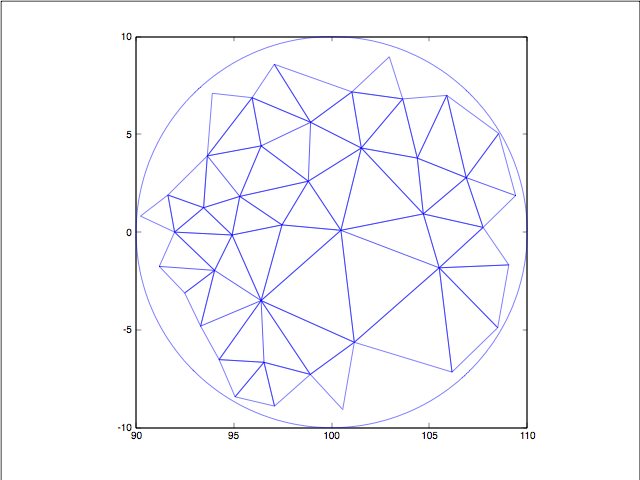
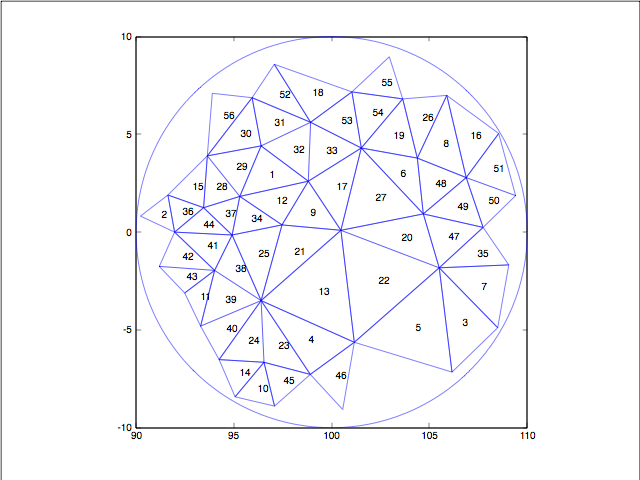
Updating top of synapse mesh view and tried to figure out nearby elements.

diff --git a/find_near_top_faces.py b/find_near_top_faces.py
@@ -1,0 +1,100 @@
+import numpy as np
+import scipy.io
+
+import face_neighbors_and_top_components as utils
+
+
+def get_new_edge_neighbors(boundary_vertices,
+                           all_component_vertices, all_valid_indices,
+                           facets, edges, vertices):
+  all_edge_neighbors = set()
+  for index in boundary_vertices:
+    facet = facets[index]
+    facet_edge_neighbors, _ = utils.get_neighbors(facet, edges, vertices,
+                                                  all_valid_indices)
+    all_edge_neighbors.update(facet_edge_neighbors)
+
+  # Remove faces already known
+  all_edge_neighbors = all_edge_neighbors - set(all_component_vertices)
+
+  return sorted(all_edge_neighbors)
+
+
+def get_points(face_indices, facets, vertices):
+  vertices_in_faces = np.vstack([facets[index].entities(0)
+                                 for index in face_indices])
+  # Find the index of all possible vertices on a face.
+  vertex_indices = sorted(set(vertices_in_faces.flatten()))
+
+  # Turn the indices into actual points
+  vertex_points = np.vstack([utils.get_point_in_3d(index, vertices)
+                             for index in vertex_indices])
+
+  return vertices_in_faces, vertex_indices, vertex_points
+
+
+def main():
+  resolution = 96  # 32 * 3
+  mesh_3d_full, facets, edges, vertices = utils.get_data(resolution)
+  top_facets = utils.get_top_facets(facets, resolution)
+
+  facets_by_index, components = utils.get_connected_components(
+      top_facets, edges, vertices)
+
+  # "First" component.
+  component = sorted(components[0])
+  component_facets = [facets_by_index[index] for index in component]
+
+  # All exterior indices should be allowed.
+  exterior_face_filename = 'exterior_faces_res_%d_full.npy' % resolution
+  exterior_face_indices = np.load(exterior_face_filename)
+  exterior_face_indices = set(exterior_face_indices)
+
+  breadth_first_extended_layers = {}
+  boundary_vertices = component[:]
+  all_component_vertices = component[:]
+  for i in xrange(1, 4):
+    new_neighbors = get_new_edge_neighbors(boundary_vertices,
+                                           all_component_vertices,
+                                           exterior_face_indices,
+                                           facets, edges, vertices)
+    # Add the new neighbors to the dictionary.
+    vertices_in_faces, vertex_indices, vertex_points = get_points(
+        new_neighbors, facets, vertices)
+    breadth_first_extended_layers[i] = (new_neighbors, vertices_in_faces,
+                                        vertex_indices, vertex_points)
+    # Add the new neighbors to the component.
+    all_component_vertices += new_neighbors
+    # Make the boundary equal to the newly discovered layer of neighbors.
+    boundary_vertices = new_neighbors[:]
+
+  # We are forgetting about the individual values of
+  # "breadth_first_extended_layers" but they can potentially by useful.
+
+  all_component_vertices = sorted(all_component_vertices)
+  vertices_in_faces, vertex_indices, vertex_points = get_points(
+      all_component_vertices, facets, vertices)
+
+  vertex_renumbering_for_matlab = {
+      value: (i + 1) for i, value in enumerate(vertex_indices)}
+
+  def renumber_method(value):
+    return vertex_renumbering_for_matlab[value]
+  renumber_method = np.vectorize(renumber_method)
+
+  vertices_in_faces = renumber_method(vertices_in_faces)
+
+  # Save these to a MATLAB file so we can use them in MATLAB.
+  matlab_filename = 'trimesh_3D_data_%d.mat' % resolution
+  print '=' * 60
+  print 'Saving nearby first component 3D mesh data to file:',
+  print matlab_filename
+  data = {
+      'points': vertex_points,
+      'triangles': vertices_in_faces,
+  }
+  scipy.io.savemat(matlab_filename, data)
+
+
+if __name__ == '__main__':
+  main()

diff --git a/face_neighbors_and_top_components.py b/face_neighbors_and_top_components.py
@@ -57,19 +57,22 @@ def get_data(resolution):
   print '=' * 60
   mesh_3d_full.init()
 
+  print 'Reading facet, edge and vertex iterators into lists'
+  print '=' * 60
+  facets = list(dolfin.facets(mesh_3d_full))
+  edges = list(dolfin.edges(mesh_3d_full))
+  vertices = list(dolfin.vertices(mesh_3d_full))
+
+  return mesh_3d_full, facets, edges, vertices
+
+
+def get_top_facets(facets, resolution):
   top_indices_filename = 'faces_top_indices_res_%d_full.npy' % resolution
   top_indices = np.load(top_indices_filename)
   top_indices = set(top_indices)
 
-  print 'Reading facet, edge and vertex iterators into lists'
-  print '=' * 60
-  facets = list(dolfin.facets(mesh_3d_full))
-  top_facets = [facet for i, facet in enumerate(facets)
-                if i in top_indices]
-  edges = list(dolfin.edges(mesh_3d_full))
-  vertices = list(dolfin.vertices(mesh_3d_full))
-
-  return mesh_3d_full, top_facets, edges, vertices
+  return [facet for i, facet in enumerate(facets)
+          if i in top_indices]
 
 
 def get_point_in_3d(index, vertices):
@@ -112,7 +115,8 @@ def main():
   resolution = 96  # 32 * 3
   # For some reason, this fails if mesh_3d_full is not in the
   # same scope as the values inherited from it.
-  unused_mesh_3d_full, top_facets, edges, vertices = get_data(resolution)
+  unused_mesh_3d_full, facets, edges, vertices = get_data(resolution)
+  top_facets = get_top_facets(facets, resolution)
 
   print 'Computing connected components'
   print '=' * 60

diff --git a/view_top_component.m b/view_top_component.m
@@ -1,0 +1,20 @@
+load trimesh_data_96.mat
+trimesh(triangles, points(:, 1), points(:, 2));
+axis equal;
+
+theta = 0:0.01:2*pi;
+xCirc = 100 + 10 * cos(theta);
+yCirc = 0 + 10 * sin(theta);
+hold on;
+plot(xCirc, yCirc);
+
+centroids = zeros(size(triangles, 1), size(points, 2));
+for i = 1:size(triangles, 1)
+  triIndices = triangles(i, :);
+  centroids(i, :) = mean(points(triIndices, :));
+end
+
+% http://www.mathworks.com/matlabcentral/newsreader/view_thread/171376
+th = text(centroids(:, 1), centroids(:, 2), ...
+          num2cell(1:size(centroids, 1)), ...
+          'fontsize', 10);

diff --git a/view_3d_near_top.m b/view_3d_near_top.m
@@ -1,0 +1,14 @@
+load trimesh_3D_data_96.mat
+patch('Vertices', points, 'Faces', triangles, ...
+      'FaceVertexCData', jet(length(triangles)), ...
+      'FaceColor', 'flat');
+centroids = zeros(size(triangles));
+for i = 1:size(triangles, 1)
+  triIndices = triangles(i, :);
+  centroids(i, :) = mean(points(triIndices, :));
+end
+
+% http://www.mathworks.com/matlabcentral/newsreader/view_thread/171376
+th = text(centroids(:, 1), centroids(:, 2), centroids(:, 3), ...
+          num2cell(1:size(centroids, 1)), ...
+          'fontsize', 10);
